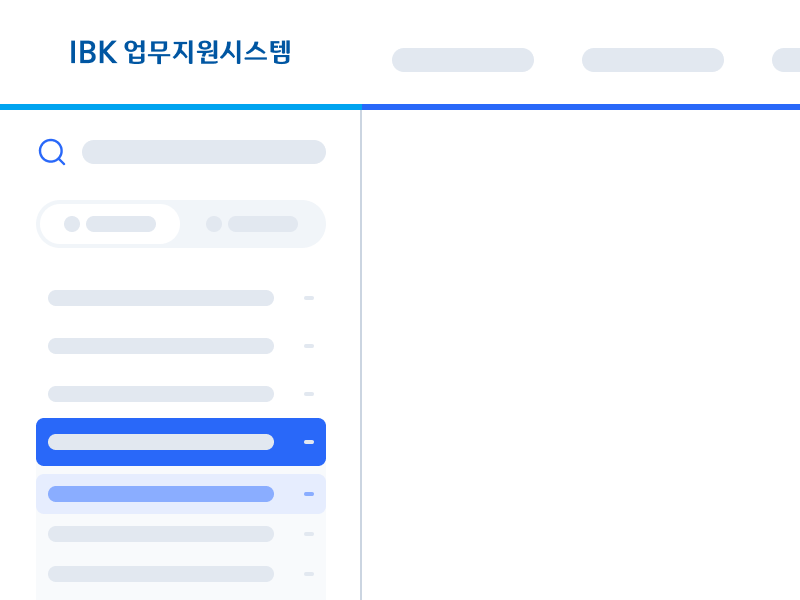
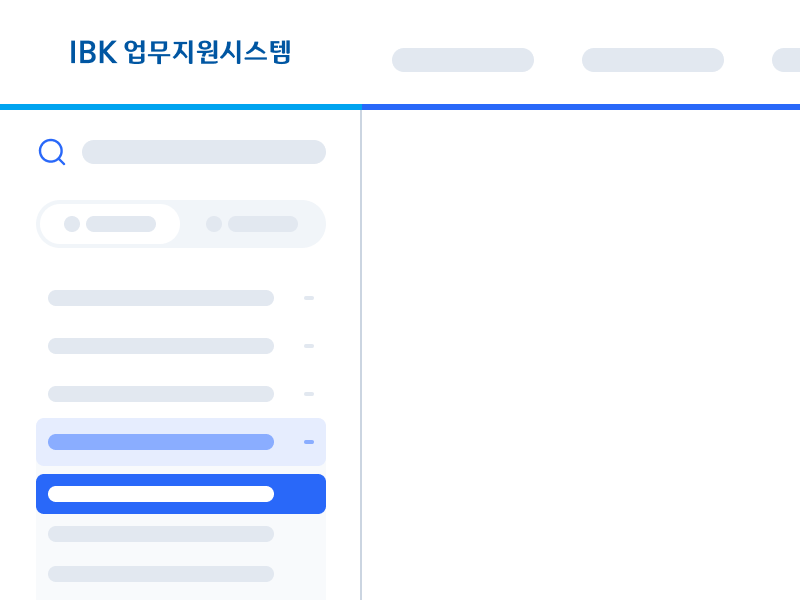
Ksa IBK-BWS-Proto

Changed region(s): [[0.0312, 0.69, 0.4062, 0.87]]

diff --git a/Works/ksas/ibk-bws-proto/src/assets/scss/modules/_theme.scss b/Works/ksas/ibk-bws-proto/src/assets/scss/modules/_theme.scss
@@ -49,16 +49,18 @@
 
 
 // ** FMTFT0801M 외국통화견양집
-.card-list {display: grid; grid-template-columns: repeat(auto-fit, minmax(var(--width-min, 373px), var(--width-max, 373px),)); gap: 24px 16px;}
+.card-list {display: grid; grid-template-columns: repeat(auto-fit, minmax(var(--width-min, III(354)), 1fr)); gap: III(24) III(16);}
+.card-list .item { transition: 0.25s $timing-func-ease-slower; }
+.card-list .item >* { transition: inherit; }
 .card-list .item .info-area {display: flex; align-items: center; margin: 12px 0 8px; justify-content: center; border: 1px solid #ECECEE; border-radius: 4px; }
 .card-list .item .info-area li + li::before {content: ''; position: absolute; top: 50%; transform: translateY(-50%); left: 0; display: block; width: 1px; height: 10px; background-color: #ECECEE;}
 
-.card-list .item .o-object {position: relative; height: 157px; border: 1px solid #ECECEE; border-radius: 4px; }
-.card-list .item .o-object:not(:has(img)) .o-image-button { display: none; }
-.card-list .item .o-image-button { position: absolute; min-width: 100%; min-height: 100%; background-color: var(--color-surface-overlay) !important; }
-.card-list .item .o-image-button:not(:hover)  { opacity: 0.0; }
+.card-list .item .o-object {position: relative; height: III(157); border: 1px solid #ECECEE; border-radius: $radius-50; }
+.card-list .item .o-object img { object-fit: contain; object-position: center; }
+.card-list .item .o-object .o-image-button:where(:not(img +*), .noimage +*) { display: none; }
+.card-list .item .o-image-button { position: absolute; top: 0; right: 0; width: III(34); height: III(34); background-color: var(--color-surface-overlay) !important; border-start-start-radius: 0; border-end-end-radius: 0; }
+.card-list .item .o-image-button:not(.o-object:hover *)  { opacity: 0.0; }
 .card-list .item .o-image-button:before  { background-position: 75%; }
-
 
 .card-list .item .info-area li {position: relative; display: flex; flex: 1; justify-content: center; padding: 8px 0;}
 .card-list .item .info-area .name {position: relative; display: flex; font-size: 13px;}
@@ -66,8 +68,11 @@
 // .card-list .item .info-area .name::after {content: ''; display: inline-block; width: 16px; height: 16px; margin-left: 10px;}
 // .card-list .item .info-area .name::before {content: ''; display: inline-block;position: absolute;top: 50%; transform: translateY(-50%); width: 16px; height: 16px; right:-20px; background-color: blue;}
 
-
 .card-list .item .text-area {font-size: 13px; color: #525252; @include inc-ellipsis2(2);}
+
+.card-list .item.is-selected .o-object,
+.card-list .item.is-selected .info-area  { border-color: var(--color-control-40); box-shadow: $dropshadow-40; }
+
 
 // **primereact 달력
 .p-datepicker  {

diff --git a/Works/ksas/ibk-bws-proto/public/templets/index.html b/Works/ksas/ibk-bws-proto/public/templets/index.html
@@ -1246,7 +1246,7 @@ a[href]:not([href=""], [href$="#"], [href$="undefined"])  { cursor: pointer; }
 			<td class="scid">CMP000901P</td>
 			<td class="link"><a target="page" href="/proto/CMP000901P">CMP000901P</a></td>
 			<td class="auth"><span class="name DEL"></span></td>
-			<td class="done"><span class="date DEL">2025-08-08</span></td>
+			<td class="done"><span class="date done">2025-08-12</span></td>
 			<td class="note">
 				<p class="__CLASSNAME__"></p>
 			</td>
@@ -1270,7 +1270,7 @@ a[href]:not([href=""], [href$="#"], [href$="undefined"])  { cursor: pointer; }
 			<td class="scid">CMP001001P</td>
 			<td class="link"><a target="page" href="/proto/CMP001001P">CMP001001P</a></td>
 			<td class="auth"><span class="name DEL"></span></td>
-			<td class="done"><span class="date DEL">2025-08-09</span></td>
+			<td class="done"><span class="date done">2025-08-12</span></td>
 			<td class="note">
 				<p class="__CLASSNAME__"></p>
 			</td>
@@ -3234,6 +3234,7 @@ a[href]:not([href=""], [href$="#"], [href$="undefined"])  { cursor: pointer; }
 			<td class="auth"><span class="name DEL"></span></td>
 			<td class="done"><span class="date DEL">2025-08-24</span></td>
 			<td class="note">
+				<p class="modify">[2025-09-16] ["화폐목록" 영역] '.item' 요소 선택("is-selected" 클래스네임) 예시 추가</p>
 				<p class="__CLASSNAME__"></p>
 			</td>
 		</tr>
@@ -15731,7 +15732,8 @@ a[href]:not([href=""], [href$="#"], [href$="undefined"])  { cursor: pointer; }
 			<td class="auth"><span class="name DEL">김진영</span></td>
 			<td class="done"><span class="date done">2025-07-16</span></td>
 			<td class="note">
-				<p class="modify">[2025-08-11] [상세 내역] "전체건수" 추가</p>
+				<p class="modify">[2025-09-15] ["상세 내역" ~ 그리드 영역] "계약정보 불러오기" 컬럼 추가</p>
+				<p class="modify">[2025-08-11] ["상세 내역"] "전체건수" 추가</p>
 			</td>
 		</tr>
 		<tr class="DEL">

diff --git a/Works/ksas/ibk-bws-proto/src/app/pages/fmt/FMTFT0801M.tsx b/Works/ksas/ibk-bws-proto/src/app/pages/fmt/FMTFT0801M.tsx
@@ -188,7 +188,7 @@ function FMTFT0801M() {
                       주의사항을 여기에 표시해줍니다. 주의사항은 외화통화등록/수정 팝업에서 작성할 수 있으며 개행을 위한 예시입니다.개행을 위한 예시입니다. 예시입니다
                     </p>
                   </div>
-                  <div className="item">
+                  <div className="item is-selected">
                     <div className="o-object style-fit">
                       <img src={require("assets/images/temp/FMTFT0801P02_010.png")} alt="" />
                       <ImageButton label="화폐이미지보기" icon="maximize" size={50} />

diff --git a/Works/ksas/ibk-bws-proto/src/assets/scss/modules/_partial.scss b/Works/ksas/ibk-bws-proto/src/assets/scss/modules/_partial.scss
@@ -197,7 +197,7 @@
 
 .m-shop-list  {  }
 .m-shop-list >.container  {  }
-.m-shop-list >.container >:not(.o-empty-data)  { display: grid; grid-template-columns: repeat(auto-fit, minmax(var(--width-min, III(242)), var(--width-max, III(242)),)); gap: III(16); /* gap: III(24) III(16); */ }
+.m-shop-list >.container >:not(.o-empty-data)  { display: grid; grid-template-columns: repeat(auto-fit, minmax(var(--width-min, III(242)), 1fr)); gap: III(16); /* gap: III(24) III(16); */ }
 
 
 .m-shop-table  {  }
